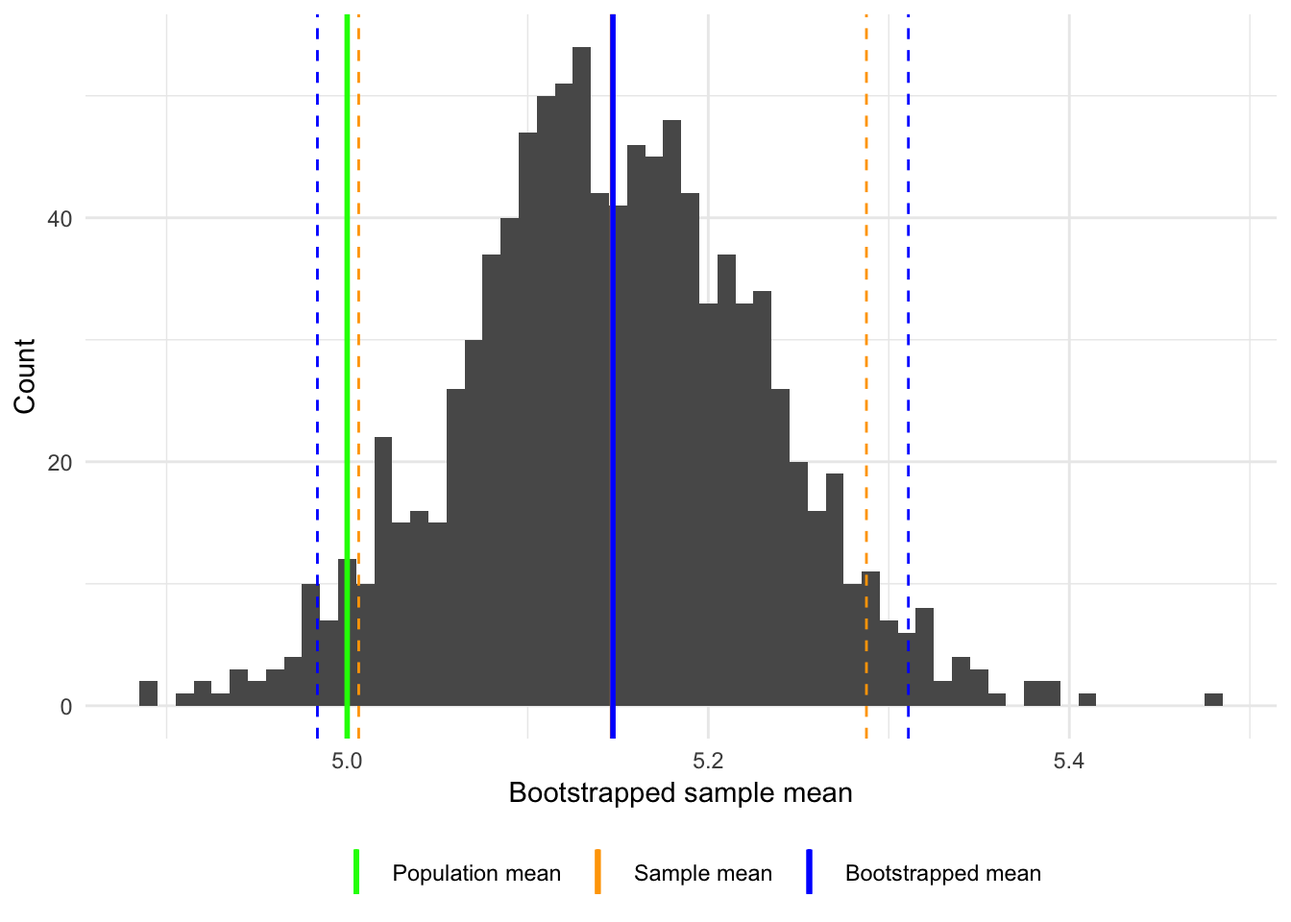
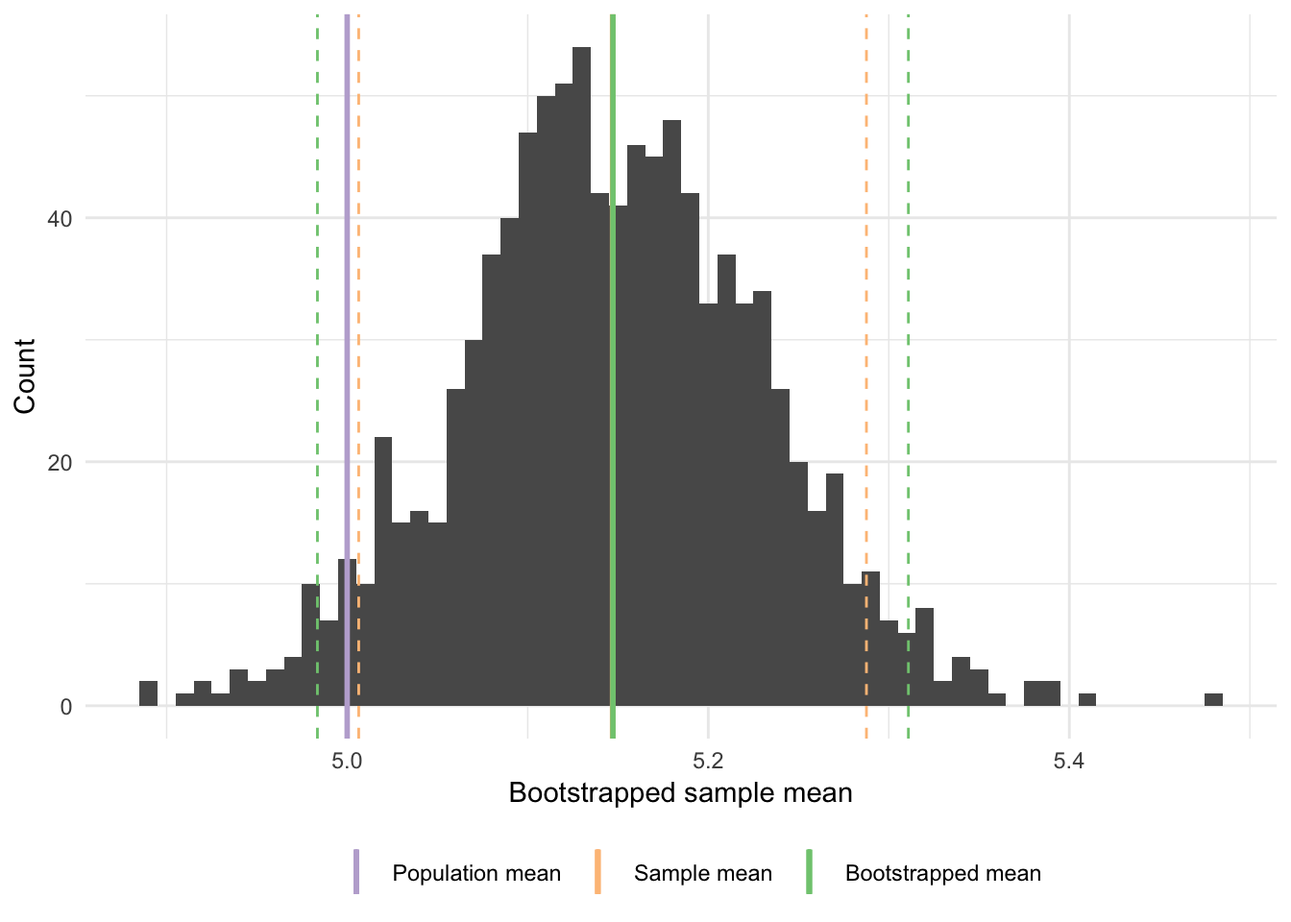
Update bootstrap notes for rsample

diff --git a/content/notes/bootstrap.html b/content/notes/bootstrap.html
@@ -80,35 +80,35 @@ code > span.in { color: #60a0b0; font-weight: bold; font-style: italic; } /* Inf
 <h1><span class="header-section-number">1</span> Generating samples</h1>
 <p><strong>Sampling without replacement</strong> involves randomly sampling from a population whereby once an observation is drawn, it cannot be drawn again. Here I’ve drawn 10 random samples without replacement from the vector <span class="math inline">\(1, 2, 3, 4, 5, 6, 7, 8, 9, 10\)</span>:</p>
 <div class="sourceCode"><pre class="sourceCode r"><code class="sourceCode r"><span class="kw">rerun</span>(<span class="dv">10</span>, <span class="kw">sample.int</span>(<span class="dv">10</span>, <span class="dt">replace =</span> <span class="ot">FALSE</span>)) <span class="op">%&gt;%</span>
-<span class="st">  </span>unlist <span class="op">%&gt;%</span>
-<span class="st">  </span><span class="kw">matrix</span>(<span class="dt">ncol =</span> <span class="dv">10</span>, <span class="dt">byrow =</span> <span class="ot">TRUE</span>)</code></pre></div>
-<pre><code>##       [,1] [,2] [,3] [,4] [,5] [,6] [,7] [,8] [,9] [,10]
-##  [1,]    2    6    5    8    9    4    1    7   10     3
-##  [2,]    7    5    3   10    2    9    6    1    8     4
-##  [3,]    4    3    2    1    8    5    9   10    6     7
-##  [4,]    5    3    9    4    2    7    1   10    6     8
-##  [5,]    6   10    3    5    2    8    7    9    1     4
-##  [6,]    1    3    6    4   10    9    2    5    8     7
-##  [7,]    9    1    3   10    2    4    6    5    7     8
-##  [8,]    2    9    1    6    8    3   10    7    5     4
-##  [9,]   10    5    2    4    8    9    6    1    3     7
-## [10,]    2    9   10    1    7    3    8    6    5     4</code></pre>
+<span class="st">  </span>bind_cols <span class="op">%&gt;%</span>
+<span class="st">  </span><span class="kw">as.matrix</span>()</code></pre></div>
+<pre><code>##       V1 V2 V3 V4 V5 V6 V7 V8 V9 V10
+##  [1,]  2  7  4  5  6  1  9  2 10   2
+##  [2,]  6  5  3  3 10  3  1  9  5   9
+##  [3,]  5  3  2  9  3  6  3  1  2  10
+##  [4,]  8 10  1  4  5  4 10  6  4   1
+##  [5,]  9  2  8  2  2 10  2  8  8   7
+##  [6,]  4  9  5  7  8  9  4  3  9   3
+##  [7,]  1  6  9  1  7  2  6 10  6   8
+##  [8,]  7  1 10 10  9  5  5  7  1   6
+##  [9,] 10  8  6  6  1  8  7  5  3   5
+## [10,]  3  4  7  8  4  7  8  4  7   4</code></pre>
 <p>Drawing <span class="math inline">\(10\)</span> samples of size <span class="math inline">\(10\)</span> from an original population of <span class="math inline">\(10\)</span> observations would produce the exact same sample every time, just in a different order.</p>
 <p><strong>Sampling with replacement</strong> allows us to potentially draw the same observation multiple times, and ignore other observations entirely.</p>
 <div class="sourceCode"><pre class="sourceCode r"><code class="sourceCode r"><span class="kw">rerun</span>(<span class="dv">10</span>, <span class="kw">sample.int</span>(<span class="dv">10</span>, <span class="dt">replace =</span> <span class="ot">TRUE</span>)) <span class="op">%&gt;%</span>
-<span class="st">  </span>unlist <span class="op">%&gt;%</span>
-<span class="st">  </span><span class="kw">matrix</span>(<span class="dt">ncol =</span> <span class="dv">10</span>, <span class="dt">byrow =</span> <span class="ot">TRUE</span>)</code></pre></div>
-<pre><code>##       [,1] [,2] [,3] [,4] [,5] [,6] [,7] [,8] [,9] [,10]
-##  [1,]    1    6    3    3    2    4    2    2    5     1
-##  [2,]    8    2   10    2    3   10   10    3    2     8
-##  [3,]    8   10   10   10    5    3    3    6    5     4
-##  [4,]   10    7    2    5   10    5   10    6    7     9
-##  [5,]    6   10    4    5    4    7    8    6   10     6
-##  [6,]    5    3    1    9    3   10    7   10    4     6
-##  [7,]    5    6    5    3    1    7    5    1    9     4
-##  [8,]    8    6    8    5    4    8    5    6    2     4
-##  [9,]    5    4    7    1   10    1    9    7    4     8
-## [10,]    7   10    2    9    9    9    9    8   10     7</code></pre>
+<span class="st">  </span>bind_cols <span class="op">%&gt;%</span>
+<span class="st">  </span><span class="kw">as.matrix</span>()</code></pre></div>
+<pre><code>##       V1 V2 V3 V4 V5 V6 V7 V8 V9 V10
+##  [1,]  1  8  8 10  6  5  5  8  5   7
+##  [2,]  6  2 10  7 10  3  6  6  4  10
+##  [3,]  3 10 10  2  4  1  5  8  7   2
+##  [4,]  3  2 10  5  5  9  3  5  1   9
+##  [5,]  2  3  5 10  4  3  1  4 10   9
+##  [6,]  4 10  3  5  7 10  7  8  1   9
+##  [7,]  2 10  3 10  8  7  5  5  9   9
+##  [8,]  2  3  6  6  6 10  1  6  7   8
+##  [9,]  5  2  5  7 10  4  9  2  4  10
+## [10,]  1  8  4  9  6  6  4  4  8   7</code></pre>
 <p>Here I’ve drawn 10 random samples with replacement from the vector <span class="math inline">\(1, 2, 3, 4, 5, 6, 7, 8, 9, 10\)</span>. Each row contains a different sample. Notice how some rows contain multiples of the same values and exclude others entirely.</p>
 </div>
 <div id="why-use-the-bootstrap" class="section level1">
@@ -121,7 +121,7 @@ code > span.in { color: #60a0b0; font-weight: bold; font-style: italic; } /* Inf
 <div id="making-assumptions" class="section level2">
 <h2><span class="header-section-number">2.1</span> Making assumptions</h2>
 <div class="figure">
-<img src="images/xkcd_assume.png" alt="When you assume" />
+<img src="https://imgs.xkcd.com/comics/when_you_assume.png" alt="When you assume" />
 <p class="caption"><a href="https://www.xkcd.com/1339/">When you assume</a></p>
 </div>
 <p>Suppose you decide to make assumptions, e.g. that the sample is distributed normally or <a href="https://en.wikipedia.org/wiki/Bernoulli_distribution">Bernoulli</a> or some other probability distribution. You could learn about how much the answer to your question varies based on the specific sample drawn by repeatedly generating samples of the same size and asking them the same question. If you have a computaionally convenient assumption (such as the <a href="https://en.wikipedia.org/wiki/Central_limit_theorem">Central Limit Theorem</a>), you may even be able to bypass the resampling step and use a known formula to estimate your confidence in the original answer.</p>
@@ -129,7 +129,7 @@ code > span.in { color: #60a0b0; font-weight: bold; font-style: italic; } /* Inf
 <div id="using-information-in-the-sample" class="section level2">
 <h2><span class="header-section-number">2.2</span> Using information in the sample</h2>
 <div class="figure">
-<img src="images/sample_pop_meme.jpg" />
+<img src="/img/sample_pop_meme.jpg" />
 
 </div>
 <p>Provided you are happy to make the assumptions, this seems like a good idea. If you are not willing to make the assumption, you could instead take the sample you have and sample from it. You can do this because the sample you have <strong>is also a population</strong>, just a very small and discrete one. It is identical to the histogram of your data. Sampling with replacement merely allows you to treat the sample like it’s a population and sample from it in a way that reflects its shape.</p>
@@ -148,32 +148,39 @@ code > span.in { color: #60a0b0; font-weight: bold; font-style: italic; } /* Inf
 <span class="kw">set.seed</span>(<span class="dv">1234</span>)
 mu &lt;-<span class="st"> </span><span class="dv">5</span>
 n_obs &lt;-<span class="st"> </span><span class="dv">1000</span>
-ice &lt;-<span class="st"> </span><span class="kw">data_frame</span>(<span class="dt">sim =</span> <span class="kw">rpois</span>(n_obs, <span class="dt">lambda =</span> mu))</code></pre></div>
-<pre><code>## Warning: `data_frame()` is deprecated, use `tibble()`.
-## This warning is displayed once per session.</code></pre>
-<div class="sourceCode"><pre class="sourceCode r"><code class="sourceCode r"><span class="kw">ggplot</span>(ice, <span class="kw">aes</span>(sim)) <span class="op">+</span>
-<span class="st">  </span><span class="kw">geom_histogram</span>(<span class="dt">binwidth =</span> <span class="dv">1</span>)</code></pre></div>
+ice &lt;-<span class="st"> </span><span class="kw">tibble</span>(<span class="dt">sim =</span> <span class="kw">rpois</span>(n_obs, <span class="dt">lambda =</span> mu))
+
+<span class="kw">ggplot</span>(ice, <span class="kw">aes</span>(sim)) <span class="op">+</span>
+<span class="st">  </span><span class="kw">geom_histogram</span>(<span class="dt">binwidth =</span> <span class="dv">1</span>) <span class="op">+</span>
+<span class="st">  </span><span class="kw">labs</span>(<span class="dt">x =</span> <span class="st">&quot;Ice cream consumption in a month&quot;</span>,
+       <span class="dt">y =</span> <span class="st">&quot;Frequency count&quot;</span>)</code></pre></div>
 <p><img src="/notes/bootstrap_files/figure-html/ice-sim-1.png" width="672" /></p>
 <p>The mean of this sample is 5.062, which we will treat as the population mean <span class="math inline">\(\mu\)</span>. Remember that in the real world, we do not know <span class="math inline">\(\mu\)</span> because we have not observed all members of the population. Instead, we use the sample to estimate <span class="math inline">\(\hat{\mu}\)</span> on the assumption that the sample mean approximates the true mean.</p>
 <p>The <a href="https://en.wikipedia.org/wiki/Poisson_distribution">Poisson distribution</a> is the most likely population distribution as it describes the count of event over time. The probability mass function of the Poisson distribution is</p>
-<p><span class="math display">\[P(Y_i = y_i | \mu) = \frac{\mu^{y_i} e^{-\mu}}{y_i!}\]</span></p>
-<p>where <span class="math inline">\(\mu\)</span> is the event rate (average number of events per interval), <span class="math inline">\(e\)</span> is Euler’s number, <span class="math inline">\(y_i\)</span> is an integer with range <span class="math inline">\([0, \infty]\)</span>, and <span class="math inline">\(y_i!\)</span> is the factorial of <span class="math inline">\(y_i\)</span>. The mean <span class="math inline">\(\mu\)</span> and variance <span class="math inline">\(\sigma\)</span> of a Poisson distribution are the same parameterm and hence are both defined by <span class="math inline">\(\mu\)</span>.</p>
+<p><span class="math display">\[\Pr(X = x) = e^{-\lambda} \frac{\lambda^{k}}{k!}\]</span></p>
+<p>where <span class="math inline">\(\lambda\)</span> is the event rate (average number of events per interval), <span class="math inline">\(e\)</span> is Euler’s number, <span class="math inline">\(y_i\)</span> is an integer with range <span class="math inline">\([0, \infty]\)</span>, and <span class="math inline">\(y_i!\)</span> is the factorial of <span class="math inline">\(y_i\)</span>. The mean <span class="math inline">\(\mu\)</span> and variance <span class="math inline">\(\sigma\)</span> of a Poisson distribution are the same parameter and hence are both defined by <span class="math inline">\(\lambda\)</span>.</p>
 <p>Because we are estimating <span class="math inline">\(\mu\)</span> from a sample, we should also estimate the <strong>standard error</strong> of the sample mean. This is necessary because any random sample drawn from a population will not exactly reproduce the population. We need to account for sampling error by estimating how much our sample mean <span class="math inline">\(\hat{\mu}\)</span> might differ from the true mean <span class="math inline">\(\mu\)</span>.</p>
 <p>The distribution of the mean of a set of samples is approximately <a href="https://en.wikipedia.org/wiki/Normal_distribution">normally distributed</a>.<a href="#fn2" class="footnoteRef" id="fnref2"><sup>2</sup></a> Therefore the standard error of the sample mean from a Poisson distribution is</p>
-<p><span class="math display">\[\sqrt{\frac{\mu}{n}}\]</span></p>
+<p><span class="math display">\[\sqrt{\frac{\hat{\lambda}}{n}}\]</span></p>
 <div class="sourceCode"><pre class="sourceCode r"><code class="sourceCode r">mu_samp &lt;-<span class="st"> </span><span class="kw">mean</span>(ice<span class="op">$</span>sim)
 sem &lt;-<span class="st"> </span><span class="kw">sqrt</span>(mu_samp <span class="op">/</span><span class="st"> </span>n_obs)</code></pre></div>
-<p>The standard error of the sample mean is <span class="math inline">\(0.0711477\)</span>. This is a good estimate <strong>as long as the data generating process actually follows a Poisson distribution</strong>. The Poisson distribution requires <a href="https://en.wikipedia.org/wiki/Poisson_distribution#Assumptions:_When_is_the_Poisson_distribution_an_appropriate_model.3F">several assumptions</a>. If any of these assumptions are violated, then the formula for estimating the standard error of the sample mean <span class="math inline">\(\mu\)</span> will not be accurate.</p>
+<p>The standard error of the sample mean is <span class="math inline">\(0.0711477\)</span>. This is a good estimate <strong>as long as the data generating process actually follows a Poisson distribution</strong>. The Poisson distribution requires <a href="https://en.wikipedia.org/wiki/Poisson_distribution#Assumptions:_When_is_the_Poisson_distribution_an_appropriate_model.3F">several assumptions</a>. If any of these assumptions are violated, then the formula for estimating the standard error of the sample mean <span class="math inline">\(\hat{\mu}\)</span> will not be accurate.</p>
 <p>In that situation, we can use the bootstrap to estimate the standard error without making any distributional assumptions. In this approach, we draw <span class="math inline">\(B\)</span> samples with replacement from the original sample. To estimate the population mean <span class="math inline">\(\mu\)</span> we calculate the mean of the bootstrapped sample means <span class="math inline">\(\hat{\mu}_1, \hat{\mu}_2, \dots, \hat{\mu}_B\)</span>. To estimate the standard error of the sampling mean <span class="math inline">\(\hat{\mu}\)</span> we use the formula</p>
 <p><span class="math display">\[SE_{B}(\hat{\mu}) = \sqrt{\frac{1}{B-1} \sum_{r = 1}^{B} \left( \hat{\mu}_r - \frac{1}{B} \sum_{r&#39; = 1}^{B} \hat{\mu}_{r&#39;} \right)^2}\]</span></p>
 <p>What this boils down to is calculating the <strong>standard deviation</strong> of all the bootstrapped sample means. That gives us our standard error.</p>
 <p>Let’s bootstrap our standard error of the mean for our simulated ice cream data. We’ll use <span class="math inline">\(B = 1000\)</span> to produce 1000 bootstrapped estimates of the mean, then calculate the standard deviation of them:</p>
-<div class="sourceCode"><pre class="sourceCode r"><code class="sourceCode r">ice_boot &lt;-<span class="st"> </span>ice <span class="op">%&gt;%</span>
-<span class="st">  </span>modelr<span class="op">::</span><span class="kw">bootstrap</span>(<span class="dv">1000</span>) <span class="op">%&gt;%</span>
-<span class="st">  </span><span class="kw">mutate</span>(<span class="dt">mean =</span> <span class="kw">map_dbl</span>(strap, <span class="op">~</span><span class="st"> </span><span class="kw">mean</span>(<span class="kw">as_tibble</span>(.)<span class="op">$</span>sim, <span class="dt">na.rm =</span> <span class="ot">TRUE</span>)))
+<div class="sourceCode"><pre class="sourceCode r"><code class="sourceCode r">mean_ice &lt;-<span class="st"> </span><span class="cf">function</span>(splits) {
+  x &lt;-<span class="st"> </span><span class="kw">analysis</span>(splits)
+  <span class="kw">mean</span>(x<span class="op">$</span>sim)
+}
+
+ice_boot &lt;-<span class="st"> </span>ice <span class="op">%&gt;%</span>
+<span class="st">  </span><span class="kw">bootstraps</span>(<span class="dv">1000</span>) <span class="op">%&gt;%</span>
+<span class="st">  </span><span class="kw">mutate</span>(<span class="dt">mean =</span> <span class="kw">map_dbl</span>(splits, mean_ice))
+
 boot_sem &lt;-<span class="st"> </span><span class="kw">sd</span>(ice_boot<span class="op">$</span>mean)</code></pre></div>
 <div class="sourceCode"><pre class="sourceCode r"><code class="sourceCode r"><span class="kw">ggplot</span>(ice_boot, <span class="kw">aes</span>(mean)) <span class="op">+</span>
-<span class="st">  </span><span class="kw">geom_histogram</span>(<span class="dt">binwidth =</span> .<span class="dv">01</span>) <span class="op">+</span>
+<span class="st">  </span><span class="kw">geom_histogram</span>(<span class="dt">binwidth =</span> .<span class="dv">01</span>, <span class="dt">alpha =</span> .<span class="dv">25</span>) <span class="op">+</span>
 <span class="st">  </span><span class="kw">geom_vline</span>(<span class="kw">aes</span>(<span class="dt">xintercept =</span> mu, <span class="dt">color =</span> <span class="st">&quot;Population mean&quot;</span>), <span class="dt">size =</span> <span class="dv">1</span>) <span class="op">+</span>
 <span class="st">  </span><span class="kw">geom_vline</span>(<span class="kw">aes</span>(<span class="dt">xintercept =</span> mu_samp, <span class="dt">color =</span> <span class="st">&quot;Sample mean&quot;</span>), <span class="dt">size =</span> <span class="dv">1</span>) <span class="op">+</span>
 <span class="st">  </span><span class="kw">geom_vline</span>(<span class="kw">aes</span>(<span class="dt">xintercept =</span> <span class="kw">mean</span>(ice_boot<span class="op">$</span>mean),
@@ -186,9 +193,10 @@ boot_sem &lt;-<span class="st"> </span><span class="kw">sd</span>(ice_boot<span 
              <span class="dt">linetype =</span> <span class="dv">2</span>) <span class="op">+</span>
 <span class="st">  </span><span class="kw">geom_vline</span>(<span class="kw">aes</span>(<span class="dt">xintercept =</span> mu_samp <span class="op">-</span><span class="st"> </span><span class="fl">1.96</span> <span class="op">*</span><span class="st"> </span>sem, <span class="dt">color =</span> <span class="st">&quot;Sample mean&quot;</span>),
              <span class="dt">linetype =</span> <span class="dv">2</span>) <span class="op">+</span>
-<span class="st">  </span><span class="kw">scale_color_manual</span>(<span class="dt">name =</span> <span class="ot">NULL</span>, <span class="dt">breaks =</span> <span class="kw">c</span>(<span class="st">&quot;Population mean&quot;</span>, <span class="st">&quot;Sample mean&quot;</span>,
-                                             <span class="st">&quot;Bootstrapped mean&quot;</span>),
-                     <span class="dt">values =</span> <span class="kw">c</span>(<span class="st">&quot;blue&quot;</span>, <span class="st">&quot;green&quot;</span>, <span class="st">&quot;orange&quot;</span>)) <span class="op">+</span>
+<span class="st">  </span><span class="kw">scale_color_brewer</span>(<span class="dt">type =</span> <span class="st">&quot;qual&quot;</span>,
+                     <span class="dt">name =</span> <span class="ot">NULL</span>,
+                     <span class="dt">breaks =</span> <span class="kw">c</span>(<span class="st">&quot;Population mean&quot;</span>, <span class="st">&quot;Sample mean&quot;</span>,
+                                <span class="st">&quot;Bootstrapped mean&quot;</span>)) <span class="op">+</span>
 <span class="st">  </span><span class="kw">labs</span>(<span class="dt">x =</span> <span class="st">&quot;Bootstrapped sample mean&quot;</span>,
        <span class="dt">y =</span> <span class="st">&quot;Count&quot;</span>) <span class="op">+</span>
 <span class="st">  </span><span class="kw">theme</span>(<span class="dt">legend.position =</span> <span class="st">&quot;bottom&quot;</span>)</code></pre></div>
@@ -197,12 +205,14 @@ boot_sem &lt;-<span class="st"> </span><span class="kw">sd</span>(ice_boot<span 
 <p>Let’s simulate the results once again, but draw the observations from a combination of the Poisson distribution and <a href="https://en.wikipedia.org/wiki/Uniform_distribution_(continuous)">uniform distribution</a>.</p>
 <div class="sourceCode"><pre class="sourceCode r"><code class="sourceCode r"><span class="co"># simulate the sample</span>
 <span class="kw">set.seed</span>(<span class="dv">113</span>)
-ice2 &lt;-<span class="st"> </span><span class="kw">data_frame</span>(<span class="dt">sim =</span> <span class="kw">c</span>(<span class="kw">rpois</span>(n_obs <span class="op">/</span><span class="st"> </span><span class="dv">2</span>, <span class="dt">lambda =</span> mu),
-                           <span class="kw">round</span>(<span class="kw">runif</span>(n_obs <span class="op">/</span><span class="st"> </span><span class="dv">2</span>, <span class="dt">min =</span> <span class="dv">0</span>, <span class="dt">max =</span> <span class="dv">10</span>))))
+ice2 &lt;-<span class="st"> </span><span class="kw">tibble</span>(<span class="dt">sim =</span> <span class="kw">c</span>(<span class="kw">rpois</span>(n_obs <span class="op">/</span><span class="st"> </span><span class="dv">2</span>, <span class="dt">lambda =</span> mu),
+                       <span class="kw">round</span>(<span class="kw">runif</span>(n_obs <span class="op">/</span><span class="st"> </span><span class="dv">2</span>, <span class="dt">min =</span> <span class="dv">0</span>, <span class="dt">max =</span> <span class="dv">10</span>))))
 
 <span class="co"># plot the sample distribution</span>
 <span class="kw">ggplot</span>(ice2, <span class="kw">aes</span>(sim)) <span class="op">+</span>
-<span class="st">  </span><span class="kw">geom_histogram</span>(<span class="dt">binwidth =</span> <span class="dv">1</span>)</code></pre></div>
+<span class="st">  </span><span class="kw">geom_histogram</span>(<span class="dt">binwidth =</span> <span class="dv">1</span>) <span class="op">+</span>
+<span class="st">  </span><span class="kw">labs</span>(<span class="dt">x =</span> <span class="st">&quot;Ice cream consumption in a month&quot;</span>,
+       <span class="dt">y =</span> <span class="st">&quot;Frequency count&quot;</span>)</code></pre></div>
 <p><img src="/notes/bootstrap_files/figure-html/ice-sim2-1.png" width="672" /></p>
 <div class="sourceCode"><pre class="sourceCode r"><code class="sourceCode r"><span class="co"># calculate sample mean and standard error</span>
 mu2_samp &lt;-<span class="st"> </span><span class="kw">mean</span>(ice2<span class="op">$</span>sim)
@@ -210,8 +220,8 @@ sem2 &lt;-<span class="st"> </span><span class="kw">sqrt</span>(mu2_samp <span c
 
 <span class="co"># calculate the bootstrap</span>
 ice2_boot &lt;-<span class="st"> </span>ice2 <span class="op">%&gt;%</span>
-<span class="st">  </span>modelr<span class="op">::</span><span class="kw">bootstrap</span>(<span class="dv">1000</span>) <span class="op">%&gt;%</span>
-<span class="st">  </span><span class="kw">mutate</span>(<span class="dt">mean =</span> <span class="kw">map_dbl</span>(strap, <span class="op">~</span><span class="st"> </span><span class="kw">mean</span>(<span class="kw">as_tibble</span>(.)<span class="op">$</span>sim, <span class="dt">na.rm =</span> <span class="ot">TRUE</span>)))
+<span class="st">  </span><span class="kw">bootstraps</span>(<span class="dv">1000</span>) <span class="op">%&gt;%</span>
+<span class="st">  </span><span class="kw">mutate</span>(<span class="dt">mean =</span> <span class="kw">map_dbl</span>(splits, mean_ice))
 boot2_sem &lt;-<span class="st"> </span><span class="kw">sd</span>(ice2_boot<span class="op">$</span>mean)
 
 <span class="co"># plot the bootstrapped distribution</span>
@@ -229,21 +239,22 @@ boot2_sem &lt;-<span class="st"> </span><span class="kw">sd</span>(ice2_boot<spa
              <span class="dt">linetype =</span> <span class="dv">2</span>) <span class="op">+</span>
 <span class="st">  </span><span class="kw">geom_vline</span>(<span class="kw">aes</span>(<span class="dt">xintercept =</span> mu2_samp <span class="op">-</span><span class="st"> </span><span class="fl">1.96</span> <span class="op">*</span><span class="st"> </span>sem2, <span class="dt">color =</span> <span class="st">&quot;Sample mean&quot;</span>),
              <span class="dt">linetype =</span> <span class="dv">2</span>) <span class="op">+</span>
-<span class="st">  </span><span class="kw">scale_color_manual</span>(<span class="dt">name =</span> <span class="ot">NULL</span>, <span class="dt">breaks =</span> <span class="kw">c</span>(<span class="st">&quot;Population mean&quot;</span>, <span class="st">&quot;Sample mean&quot;</span>,
-                                             <span class="st">&quot;Bootstrapped mean&quot;</span>),
-                     <span class="dt">values =</span> <span class="kw">c</span>(<span class="st">&quot;blue&quot;</span>, <span class="st">&quot;green&quot;</span>, <span class="st">&quot;orange&quot;</span>)) <span class="op">+</span>
+<span class="st">  </span><span class="kw">scale_color_brewer</span>(<span class="dt">type =</span> <span class="st">&quot;qual&quot;</span>,
+                     <span class="dt">name =</span> <span class="ot">NULL</span>,
+                     <span class="dt">breaks =</span> <span class="kw">c</span>(<span class="st">&quot;Population mean&quot;</span>, <span class="st">&quot;Sample mean&quot;</span>,
+                                <span class="st">&quot;Bootstrapped mean&quot;</span>)) <span class="op">+</span>
 <span class="st">  </span><span class="kw">labs</span>(<span class="dt">x =</span> <span class="st">&quot;Bootstrapped sample mean&quot;</span>,
        <span class="dt">y =</span> <span class="st">&quot;Count&quot;</span>) <span class="op">+</span>
 <span class="st">  </span><span class="kw">theme</span>(<span class="dt">legend.position =</span> <span class="st">&quot;bottom&quot;</span>)</code></pre></div>
 <p><img src="/notes/bootstrap_files/figure-html/ice-sim2-2.png" width="672" /></p>
-<p>The population mean <span class="math inline">\(\mu\)</span> is still defined as 5, but now look what happens to the standard errors of the estimates. The estimated means are identical under the formula-based or bootstrapped approaches (5.147), however the standard error for the sample-based approach is <span class="math inline">\(0.0717426\)</span>, compared to 0.0835042. Because the bootstrap approach generates its estimate of the standard error directly from the data, the bootstrapped 95% confidence interval includes the population mean. However the 95% confidence interval under the formula-based method does not include the population mean. In this case we are better off using the bootstrapped standard error rather than using the formula for the Poisson distribution.</p>
+<p>The population mean <span class="math inline">\(\mu\)</span> is still defined as 5, but now look what happens to the standard errors of the estimates. The estimated means are identical under the formula-based or bootstrapped approaches (5.147), however the standard error for the sample-based approach is <span class="math inline">\(0.0717426\)</span>, compared to <span class="math inline">\(0.0835042\)</span>. Because the bootstrap approach generates its estimate of the standard error directly from the data, the bootstrapped 95% confidence interval includes the population mean. However the 95% confidence interval under the formula-based method does not include the population mean. In this case we are better off using the bootstrapped standard error rather than using the formula for the Poisson distribution <strong>because the data generating process was not strictly Poisson</strong>. If you have doubts about your distributional assumptions, bootstrap estimates are a robust test of statistical inference.</p>
 </div>
 <div id="estimating-the-accuracy-of-a-linear-regression-model" class="section level1">
 <h1><span class="header-section-number">4</span> Estimating the accuracy of a linear regression model</h1>
 <p>In a linear regression model, the standard errors are statistical estimates of the average amount that the estimated parameters <span class="math inline">\(\hat{\beta}\)</span> differ from the true population parameters <span class="math inline">\(\beta\)</span>. The formula for estimating standard errors for a linear regression model is:</p>
-<p><span class="math display">\[\widehat{s.e.}(\hat{\beta}_j) = \sqrt{\hat{\sigma}^{2} (X^{T}X)^{-1}_{jj}}\]</span></p>
-<p>More simply this is the square root of the diagonal of the <a href="https://en.wikipedia.org/wiki/Ordinary_least_squares#Finite_sample_properties">variance-covariance matrix</a>. For the formula to hold, we make certain assumptions, including that our estimate of <span class="math inline">\(\sigma^2\)</span> is accurate and that any variability in the model after we account for <span class="math inline">\(X\)</span> is the result of the errors <span class="math inline">\(\epsilon\)</span>. If these assumptions are wrong, then our estimates of the standard errors will also be wrong.</p>
-<p>Let’s revisit our horsepower and mpg linear model.</p>
+<p><span class="math display">\[\widehat{{\text{se}}}(\hat{\beta}_j) = \sqrt{\hat{\sigma}^{2} (X^{T}X)^{-1}_{jj}}\]</span></p>
+<p>More simply this is the square root of the diagonal of the <a href="https://en.wikipedia.org/wiki/Ordinary_least_squares#Finite_sample_properties">variance-covariance matrix</a>. For the formula to hold, we make certain assumptions, including that our estimate of <span class="math inline">\(\sigma^2\)</span> is accurate and that any variability in the model after we account for <span class="math inline">\(X\)</span> is the result of the errors <span class="math inline">\(\epsilon\)</span>. <a href="/notes/ols-diagnostics/#non-constant-error-variance">If these assumptions are wrong, then our estimates of the standard errors will also be wrong.</a></p>
+<p>Let’s revisit our <code>horsepower</code> and <code>mpg</code> linear model using the <code>Auto</code> dataset.</p>
 <div class="sourceCode"><pre class="sourceCode r"><code class="sourceCode r"><span class="kw">library</span>(ISLR)
 
 Auto &lt;-<span class="st"> </span><span class="kw">as_tibble</span>(Auto)
@@ -254,45 +265,49 @@ Auto &lt;-<span class="st"> </span><span class="kw">as_tibble</span>(Auto)
 <span class="st">  </span><span class="kw">geom_smooth</span>(<span class="dt">method =</span> <span class="st">&quot;lm&quot;</span>)</code></pre></div>
 <p><img src="/notes/bootstrap_files/figure-html/auto-boot-1.png" width="672" /></p>
 <div class="sourceCode"><pre class="sourceCode r"><code class="sourceCode r"><span class="co"># traditional parameter estimates and standard errors</span>
-auto_lm &lt;-<span class="st"> </span><span class="kw">lm</span>(mpg <span class="op">~</span><span class="st"> </span><span class="kw">poly</span>(horsepower, <span class="dv">1</span>), <span class="dt">data =</span> Auto)
+auto_lm &lt;-<span class="st"> </span><span class="kw">lm</span>(mpg <span class="op">~</span><span class="st"> </span><span class="kw">poly</span>(horsepower, <span class="dv">1</span>, <span class="dt">raw =</span> <span class="ot">TRUE</span>), <span class="dt">data =</span> Auto)
 <span class="kw">tidy</span>(auto_lm)</code></pre></div>
 <pre><code>## # A tibble: 2 x 5
-##   term                estimate std.error statistic   p.value
-##   &lt;chr&gt;                  &lt;dbl&gt;     &lt;dbl&gt;     &lt;dbl&gt;     &lt;dbl&gt;
-## 1 (Intercept)             23.4     0.248      94.6 4.17e-271
-## 2 poly(horsepower, 1)   -120.      4.91      -24.5 7.03e- 81</code></pre>
+##   term                            estimate std.error statistic   p.value
+##   &lt;chr&gt;                              &lt;dbl&gt;     &lt;dbl&gt;     &lt;dbl&gt;     &lt;dbl&gt;
+## 1 (Intercept)                       39.9     0.717        55.7 1.22e-187
+## 2 poly(horsepower, 1, raw = TRUE)   -0.158   0.00645     -24.5 7.03e- 81</code></pre>
 <div class="sourceCode"><pre class="sourceCode r"><code class="sourceCode r"><span class="co"># bootstrapped estimates of the parameter estimates and standard errors</span>
+lm_coefs &lt;-<span class="st"> </span><span class="cf">function</span>(splits, ...) {
+  ## use `analysis` or `as.data.frame` to get the analysis data
+  mod &lt;-<span class="st"> </span><span class="kw">lm</span>(..., <span class="dt">data =</span> <span class="kw">analysis</span>(splits))
+  <span class="kw">tidy</span>(mod)
+}
+
 auto_boot &lt;-<span class="st"> </span>Auto <span class="op">%&gt;%</span>
-<span class="st">  </span>modelr<span class="op">::</span><span class="kw">bootstrap</span>(<span class="dv">1000</span>) <span class="op">%&gt;%</span>
-<span class="st">  </span><span class="kw">mutate</span>(<span class="dt">model =</span> <span class="kw">map</span>(strap, <span class="op">~</span><span class="st"> </span><span class="kw">lm</span>(mpg <span class="op">~</span><span class="st"> </span>horsepower, <span class="dt">data =</span> .)),
-         <span class="dt">coef =</span> <span class="kw">map</span>(model, tidy))
+<span class="st">  </span><span class="kw">bootstraps</span>(<span class="dv">1000</span>) <span class="op">%&gt;%</span>
+<span class="st">  </span><span class="kw">mutate</span>(<span class="dt">coef =</span> <span class="kw">map</span>(splits, lm_coefs, <span class="kw">as.formula</span>(mpg <span class="op">~</span><span class="st"> </span><span class="kw">poly</span>(horsepower, <span class="dv">1</span>, <span class="dt">raw =</span> <span class="ot">TRUE</span>))))
 
 auto_boot <span class="op">%&gt;%</span>
 <span class="st">  </span><span class="kw">unnest</span>(coef) <span class="op">%&gt;%</span>
 <span class="st">  </span><span class="kw">group_by</span>(term) <span class="op">%&gt;%</span>
-<span class="st">  </span><span class="kw">summarize</span>(<span class="dt">est.boot =</span> <span class="kw">mean</span>(estimate),
-            <span class="dt">se.boot =</span> <span class="kw">sd</span>(estimate, <span class="dt">na.rm =</span> <span class="ot">TRUE</span>))</code></pre></div>
+<span class="st">  </span><span class="kw">summarize</span>(<span class="dt">.estimate =</span> <span class="kw">mean</span>(estimate),
+            <span class="dt">.se =</span> <span class="kw">sd</span>(estimate, <span class="dt">na.rm =</span> <span class="ot">TRUE</span>))</code></pre></div>
 <pre><code>## # A tibble: 2 x 3
-##   term        est.boot se.boot
-##   &lt;chr&gt;          &lt;dbl&gt;   &lt;dbl&gt;
-## 1 (Intercept)   40.0   0.851  
-## 2 horsepower    -0.158 0.00732</code></pre>
-<p>The bootstrapped estimates of parameters are virtually identical, however the standard errors on the bootstrap estimates are slightly larger. This is because they do not rely on any distributional assumptions, whereas the traditional estimates do. Recall from the <a href="#regression">demonstration above</a> that the relationship between horsepower and mpg is non-linear, so the residuals from a linear model will be inflated, and the residuals are used to estimate <span class="math inline">\(\sigma^2\)</span>. The bootstrap method is not biased by these assumptions and gives us a more robust estimate.</p>
+##   term                            .estimate     .se
+##   &lt;chr&gt;                               &lt;dbl&gt;   &lt;dbl&gt;
+## 1 (Intercept)                        40.0   0.851  
+## 2 poly(horsepower, 1, raw = TRUE)    -0.158 0.00732</code></pre>
+<p>The bootstrapped estimates of parameters are virtually identical, however the standard errors on the bootstrap estimates are slightly larger. This is because they do not rely on any distributional assumptions, whereas the traditional estimates do. Recall from the <a href="/notes/cross-validation/#regression">cross-validation demonstration</a> that the relationship between horsepower and MPG is non-linear, so the residuals from a linear model will be inflated, and the residuals are used to estimate <span class="math inline">\(\sigma^2\)</span>. The bootstrap method is not biased by these assumptions and gives us a more robust estimate.</p>
 <p>If we compare the traditional and bootstrap estimates for the polynomial regression model, we find more similarity in our results:</p>
 <div class="sourceCode"><pre class="sourceCode r"><code class="sourceCode r"><span class="co"># traditional parameter estimates and standard errors</span>
-auto2_lm &lt;-<span class="st"> </span><span class="kw">lm</span>(mpg <span class="op">~</span><span class="st"> </span><span class="kw">poly</span>(horsepower, <span class="dv">2</span>), <span class="dt">data =</span> Auto)
+auto2_lm &lt;-<span class="st"> </span><span class="kw">lm</span>(mpg <span class="op">~</span><span class="st"> </span><span class="kw">poly</span>(horsepower, <span class="dv">2</span>, <span class="dt">raw =</span> <span class="ot">TRUE</span>), <span class="dt">data =</span> Auto)
 <span class="kw">tidy</span>(auto2_lm)</code></pre></div>
 <pre><code>## # A tibble: 3 x 5
-##   term                 estimate std.error statistic   p.value
-##   &lt;chr&gt;                   &lt;dbl&gt;     &lt;dbl&gt;     &lt;dbl&gt;     &lt;dbl&gt;
-## 1 (Intercept)              23.4     0.221     106.  2.75e-289
-## 2 poly(horsepower, 2)1   -120.      4.37      -27.5 4.17e- 93
-## 3 poly(horsepower, 2)2     44.1     4.37       10.1 2.20e- 21</code></pre>
+##   term                              estimate std.error statistic   p.value
+##   &lt;chr&gt;                                &lt;dbl&gt;     &lt;dbl&gt;     &lt;dbl&gt;     &lt;dbl&gt;
+## 1 (Intercept)                       56.9      1.80          31.6 1.74e-109
+## 2 poly(horsepower, 2, raw = TRUE)1  -0.466    0.0311       -15.0 2.29e- 40
+## 3 poly(horsepower, 2, raw = TRUE)2   0.00123  0.000122      10.1 2.20e- 21</code></pre>
 <div class="sourceCode"><pre class="sourceCode r"><code class="sourceCode r"><span class="co"># bootstrapped estimates of the parameter estimates and standard errors</span>
 auto2_boot &lt;-<span class="st"> </span>Auto <span class="op">%&gt;%</span>
-<span class="st">  </span>modelr<span class="op">::</span><span class="kw">bootstrap</span>(<span class="dv">1000</span>) <span class="op">%&gt;%</span>
-<span class="st">  </span><span class="kw">mutate</span>(<span class="dt">model =</span> <span class="kw">map</span>(strap, <span class="op">~</span><span class="st"> </span><span class="kw">lm</span>(mpg <span class="op">~</span><span class="st"> </span><span class="kw">poly</span>(horsepower, <span class="dv">2</span>), <span class="dt">data =</span> .)),
-         <span class="dt">coef =</span> <span class="kw">map</span>(model, tidy))
+<span class="st">  </span><span class="kw">bootstraps</span>(<span class="dv">1000</span>) <span class="op">%&gt;%</span>
+<span class="st">  </span><span class="kw">mutate</span>(<span class="dt">coef =</span> <span class="kw">map</span>(splits, lm_coefs, <span class="kw">as.formula</span>(mpg <span class="op">~</span><span class="st"> </span><span class="kw">poly</span>(horsepower, <span class="dv">2</span>, <span class="dt">raw =</span> <span class="ot">TRUE</span>))))
 
 auto2_boot <span class="op">%&gt;%</span>
 <span class="st">  </span><span class="kw">unnest</span>(coef) <span class="op">%&gt;%</span>
@@ -300,11 +315,11 @@ auto2_boot <span class="op">%&gt;%</span>
 <span class="st">  </span><span class="kw">summarize</span>(<span class="dt">est.boot =</span> <span class="kw">mean</span>(estimate),
             <span class="dt">se.boot =</span> <span class="kw">sd</span>(estimate, <span class="dt">na.rm =</span> <span class="ot">TRUE</span>))</code></pre></div>
 <pre><code>## # A tibble: 3 x 3
-##   term                 est.boot se.boot
-##   &lt;chr&gt;                   &lt;dbl&gt;   &lt;dbl&gt;
-## 1 (Intercept)              23.5   0.395
-## 2 poly(horsepower, 2)1   -120.    4.71 
-## 3 poly(horsepower, 2)2     43.9   4.80</code></pre>
+##   term                              est.boot  se.boot
+##   &lt;chr&gt;                                &lt;dbl&gt;    &lt;dbl&gt;
+## 1 (Intercept)                       56.9     2.15    
+## 2 poly(horsepower, 2, raw = TRUE)1  -0.466   0.0343  
+## 3 poly(horsepower, 2, raw = TRUE)2   0.00123 0.000124</code></pre>
 </div>
 <div id="session-info" class="section level1 toc-ignore">
 <h1><span class="header-section-number">5</span> Session Info</h1>
@@ -412,6 +427,7 @@ auto2_boot <span class="op">%&gt;%</span>
 ##  purrr         * 0.2.5      2018-05-29 [2]
 ##  R6              2.3.0      2018-10-04 [1]
 ##  rcfss         * 0.1.5      2019-01-24 [1]
+##  RColorBrewer    1.1-2      2014-12-07 [2]
 ##  Rcpp            1.0.0      2018-11-07 [1]
 ##  readr         * 1.3.1      2018-12-21 [2]
 ##  readxl          1.2.0      2018-12-19 [2]
@@ -552,6 +568,7 @@ auto2_boot <span class="op">%&gt;%</span>
 ##  CRAN (R 3.5.0)                   
 ##  CRAN (R 3.5.0)                   
 ##  local                            
+##  CRAN (R 3.5.0)                   
 ##  CRAN (R 3.5.0)                   
 ##  CRAN (R 3.5.0)                   
 ##  CRAN (R 3.5.0)                   
